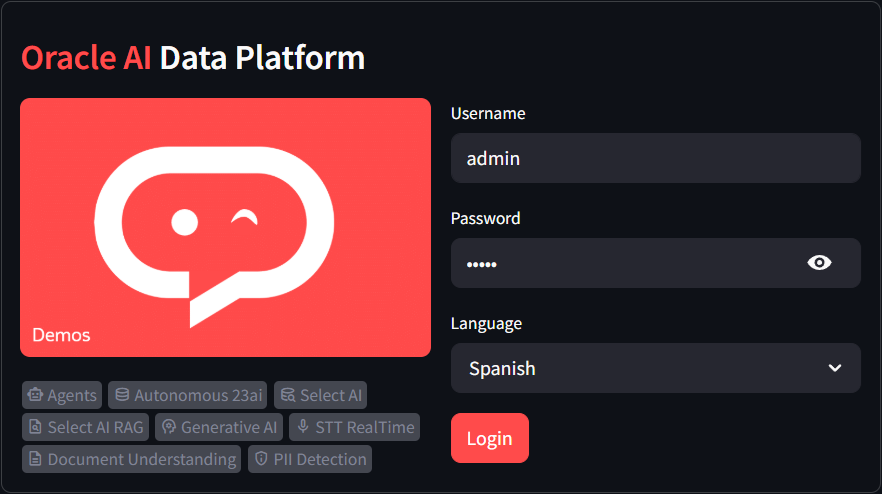
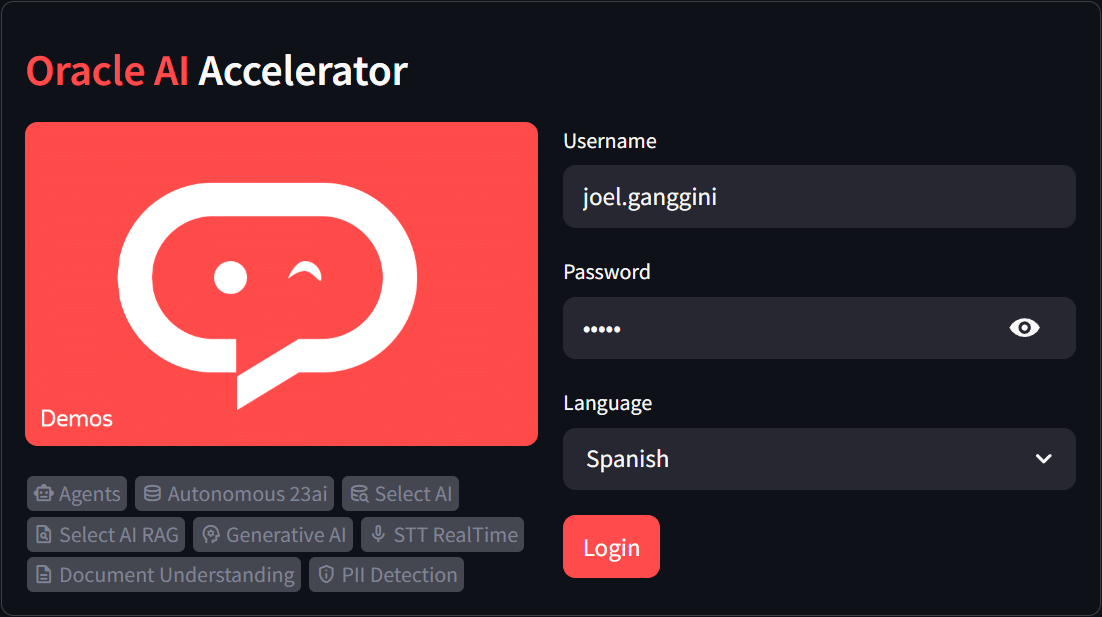
new

diff --git a/setup/setup.py b/setup/setup.py
@@ -10,6 +10,7 @@ import os
 import sys
 import subprocess
 import shutil
+import platform
 
 # Ruta absoluta o relativa al archivo .env
 file_path = os.path.dirname(__file__)
@@ -17,6 +18,21 @@ base_path = os.path.dirname(file_path)
 app_path  = os.path.join(base_path, 'app')
 env_path  = os.path.join(app_path, '.env')
 wall_path = os.path.join(app_path, 'wallet')
+
+# Detectar plataforma por argumento o sistema
+is_linux = "--linux" in sys.argv or platform.system() == "Linux"
+is_windows = "--windows" in sys.argv or platform.system() == "Windows"
+
+# Generar archivo filtrado si es Linux
+req_file = "requirements.txt"
+if is_linux:
+    req_filtered = "requirements.filtered.txt"
+    skip_pkgs = ["oci-ai-speech-realtime", "PyAudio", "websockets"]
+    with open("requirements.txt", "r") as src, open(req_filtered, "w") as dst:
+        for line in src:
+            if not any(pkg in line for pkg in skip_pkgs):
+                dst.write(line)
+    req_file = req_filtered
 
 # Verificar si el archivo .env existe
 if not os.path.exists(env_path):
@@ -209,8 +225,8 @@ def main():
     conda(f'conda run -n {con_conda_env_name} conda install -c conda-forge python-graphviz -y', 
           f'[OK] CONDA INSTALL GRAPHVIZ................................[ CONDA_INSTALL ]')
     
-    conda(f'conda run -n {con_conda_env_name} pip install -r requirements.txt', 
-          f'[OK] PIP INSTALL REQUIREMENTS..........................[ CONDA_ENVIRONMENT ]')
+    conda(f'conda run -n {con_conda_env_name} pip install -r {req_file}',
+      f'[OK] PIP INSTALL REQUIREMENTS..........................[ CONDA_ENVIRONMENT ]')
     
     print(f'\n                                                     [ VALIDATION ][ TOOLS ]')
     print(f'----------------------------------------------------------------------------')
@@ -290,10 +306,6 @@ def main():
     dest_streamlit = os.path.join(os.path.expanduser("~"), ".streamlit")
     shutil.copytree(source_streamlit, dest_streamlit, dirs_exist_ok=True)
     
-    # Streamlit
-    os.chdir(os.path.normpath(os.path.abspath(os.path.join(os.getcwd(), "..", "app"))))
-    conda(f'conda run -n {con_conda_env_name} streamlit run app.py --server.port 8501', 
-          f'[OK] OPEN STREAMLIT (http://localhost:8501)..........................[ APP ]')
     
 if __name__ == '__main__':
     main()

diff --git a/app/services/oci_speech_realtime.py b/app/services/oci_speech_realtime.py
@@ -1,5 +1,15 @@
 import asyncio
-import pyaudio
+import platform
+if platform.system() == "Windows":
+    import pyaudio
+else:
+    # Evita errores en Linux si se llama accidentalmente
+    class DummyPyAudio:
+        def __getattr__(self, name):
+            raise NotImplementedError("PyAudio is not available on this platform.")
+
+    pyaudio = DummyPyAudio()
+
 import os
 import logging
 from dotenv import load_dotenv

diff --git a/app/components/st_login.py b/app/components/st_login.py
@@ -87,7 +87,7 @@ def get_login():
     else:
         # Login Form
         with st.form('form-login'):
-            st.subheader(":red[Oracle AI] Data Platform")
+            st.subheader(":red[Oracle AI] Accelerator")
             col1, col2 = st.columns(2)
             with col1:
                 st.image("images/st_login.gif")

diff --git a/app/app.py b/app/app.py
@@ -40,7 +40,7 @@ map_state = {
 reverse_map_state = {v: k for k, v in map_state.items()}
 
 st.set_page_config(
-    page_title="AI Data Platform | Oracle",
+    page_title="Oracle AI Accelerator",
     page_icon="🅾"
 )
 
